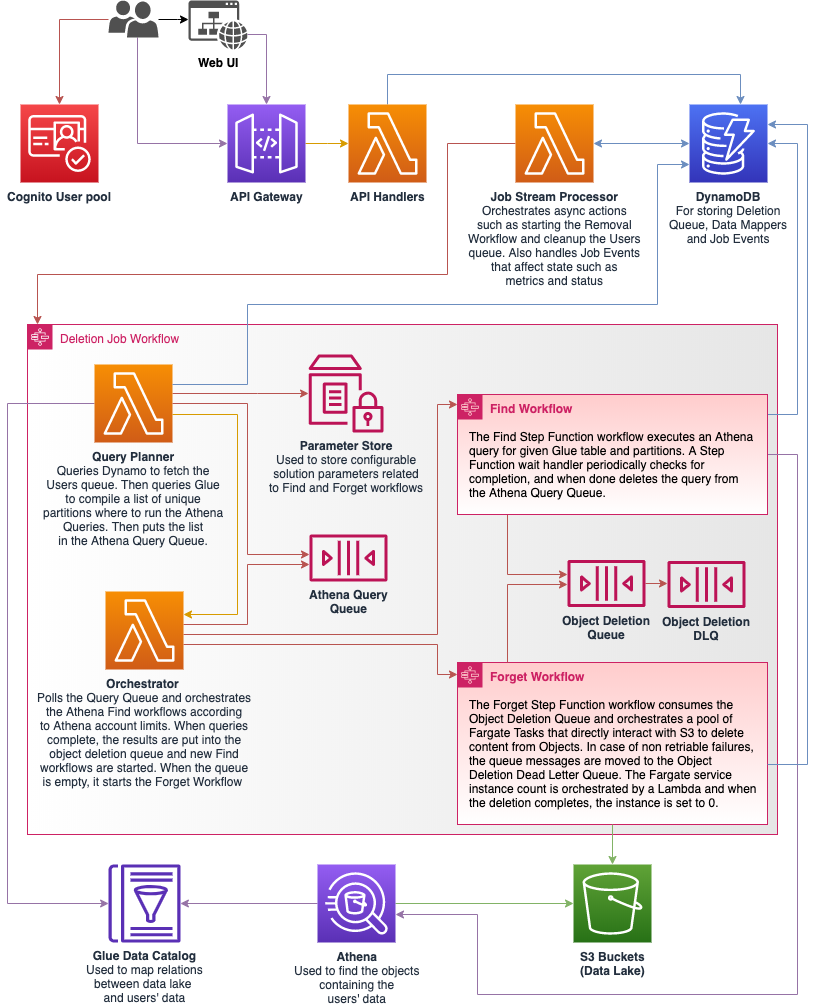
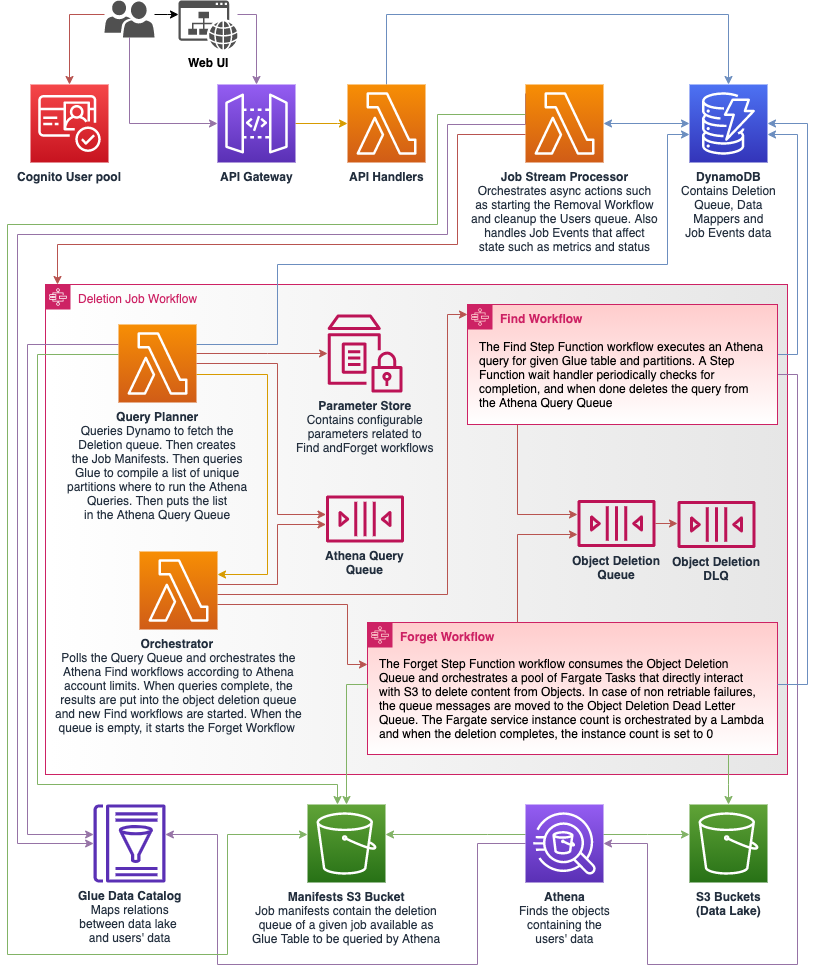
New diagram, frontend cleanup, delete manifests using S3 lifecycle policies

Changed region(s): [[0.0, 0.0, 0.9804, 1.0], [0.3064, 0.8016, 0.5515, 1.0], [0.0, 0.0617, 0.1532, 0.2158]]

diff --git a/frontend/src/utils/gateway.js b/frontend/src/utils/gateway.js
@@ -3,21 +3,19 @@ import { apiGateway, glueGateway, stsGateway } from "./request";
 const getPaginatedList = async (endpoint, key, pageSize) => {
   const all = [];
   let watermark = undefined;
-  let contentLength = 0;
 
   while (true) {
     let qs = `?page_size=${pageSize || 10}`;
     if (watermark) qs += `&start_at=${watermark}`;
     const page = await apiGateway(`${endpoint}${qs}`, { response: true });
     all.push(...page.data[key]);
-    contentLength += parseInt(page.headers["content-length"], 10);
 
     if (page.data.NextStart)
       watermark = encodeURIComponent(page.data.NextStart);
     else break;
   }
 
-  return { contentLength, response: all };
+  return { response: all };
 };
 
 const gateway = {
@@ -159,12 +157,8 @@ const gateway = {
   },
 
   async getQueue() {
-    const { response, contentLength } = await getPaginatedList(
-      "queue",
-      "MatchIds",
-      500
-    );
-    return { MatchIds: response, ContentLength: contentLength };
+    const { response } = await getPaginatedList("queue", "MatchIds", 500);
+    return { MatchIds: response };
   },
 
   getSettings() {

diff --git a/backend/lambdas/jobs/stream_processor.py b/backend/lambdas/jobs/stream_processor.py
@@ -16,7 +16,6 @@ from boto_utils import (
     emit_event,
     fetch_job_manifest,
     json_lines_iterator,
-    parse_s3_url,
     utc_timestamp,
 )
 from decorators import with_logging
@@ -27,7 +26,6 @@ logger.setLevel(logging.INFO)
 
 client = boto3.client("stepfunctions")
 ddb = boto3.resource("dynamodb")
-s3 = boto3.client("s3")
 glue = boto3.client("glue")
 
 state_machine_arn = getenv("StateMachineArn")
@@ -109,14 +107,12 @@ def process_job(job):
 
 
 def cleanup_manifests(job):
-    logger.info("Removing job manifests and related partitions")
+    logger.info("Removing job manifest partitions")
     job_id = job["Id"]
     partitions = []
     for manifest in job.get("Manifests", []):
         data_mapper_id = manifest.split("/")[5]
         partitions.append([job_id, data_mapper_id])
-        bucket, key = parse_s3_url(manifest)
-        s3.delete_object(Bucket=bucket, Key=key)
     max_deletion_batch_size = 25
     for i in range(0, len(partitions), max_deletion_batch_size):
         glue.batch_delete_partition(

diff --git a/tests/unit/jobs/test_stream_processor.py b/tests/unit/jobs/test_stream_processor.py
@@ -265,8 +265,7 @@ def test_it_starts_state_machine(mock_client):
 
 
 @patch("backend.lambdas.jobs.stream_processor.glue")
-@patch("backend.lambdas.jobs.stream_processor.s3")
-def test_it_removes_manifests_and_partitions(s3_mock, glue_mock):
+def test_it_removes_manifest_partitions(glue_mock):
     job = {
         "Id": "job-id",
         "Manifests": [
@@ -275,12 +274,6 @@ def test_it_removes_manifests_and_partitions(s3_mock, glue_mock):
         ],
     }
     cleanup_manifests(job)
-    s3_mock.delete_object.assert_has_calls(
-        [
-            call(Bucket="bucket", Key="manifests/job-id/dm-1/manifest.json"),
-            call(Bucket="bucket", Key="manifests/job-id/dm-2/manifest.json"),
-        ]
-    )
     glue_mock.batch_delete_partition.assert_called_with(
         DatabaseName="s3f2_manifests_database",
         TableName="s3f2_manifests_table",

diff --git a/docs/UPGRADE_GUIDE.md b/docs/UPGRADE_GUIDE.md
@@ -13,13 +13,12 @@ deletion jobs, upon completion, to process the whole queue.
 Starting from v0.25, the queue is processed asynchronously after job creation
 and is stored in S3 in order to remove the queue limit. As a result:
 
-1. The `DeletionQueueItemsSkipped` and `DeletionQueueItems` fields are
-   removed from the `GET /jobs/{job_id}` and `DELETE /queue` APIs.
+1. The `DeletionQueueItemsSkipped` and `DeletionQueueItems` fields are removed
+   from the `GET /jobs/{job_id}` and `DELETE /queue` APIs.
 2. A new Job Event is created when the Query Planning ends called
    `QueryPlanningComplete` that contains details of the query planning phase.
-3. After Query Planning, the `QueryPlanningComplete` event payload is
-   available in the `GET /jobs/{job_id}` API for lookup of the
-   properties:
+3. After Query Planning, the `QueryPlanningComplete` event payload is available
+   in the `GET /jobs/{job_id}` API for lookup of the properties:
    - `GeneratedQueries` is the number of queries planned for execution
    - `DeletionQueueSize` is the size of the queue for the Job
    - `Manifests` is an array of S3 Objects containing the location for the Job

diff --git a/docs/USER_GUIDE.md b/docs/USER_GUIDE.md
@@ -223,9 +223,12 @@ resources.
    - **EnableContainerInsights:** (Default: false) Whether to enable CloudWatch
      Container Insights.
    - **JobDetailsRetentionDays:** (Default: 0) How long job records should
-     remain in the Job table for. Use 0 to retain logs indefinitely. **Note:**
-     If the retention setting is changed it will only apply to _new_ deletion
-     jobs. Existing deletion jobs will retain the TTL at the time they were ran.
+     remain in the Job table and how long job manifests should remain in the S3
+     manifests bucket. Use 0 to retain data indefinitely. **Note**: if the
+     retention setting is changed it will only apply to new deletion jobs in
+     DynamoDB, existing deletion jobs will retain the TTL at the time they were
+     ran; but the policy will apply immediately to new and existing job
+     manifests in S3.
    - **EnableDynamoDBBackups:** (Default: false) Whether to enable [DynamoDB
      Point-in-Time Recovery] for the DynamoDB tables. Enabling this feature will
      incur additional costs. See the [DynamoDB Pricing] page for the associated
